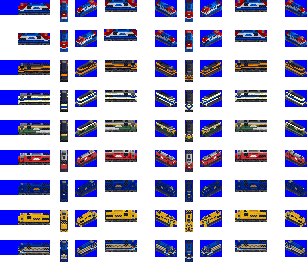
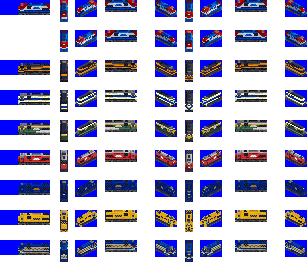
Add #176: 5x00/6x00 diesel locomotive

Changed region(s): [[0.3225, 0.0916, 0.4691, 0.1832], [0.0586, 0.1221, 0.1759, 0.1832]]

diff --git a/docs/download_page/korean.html b/docs/download_page/korean.html
@@ -49,6 +49,16 @@
         <td class="weight">88 t</td>
         <td class="introduction">2001</td>
     </tr>
+    <tr data-veh_id="K5X00">
+        <td class="refit"><div><img src="./_static/K5x00_BLACK_ORANGE.png" alt="5x00/6x00호대 디젤 기관차"></div></td>
+        <td class="name">5x00/6x00호대 디젤 기관차</td>
+        <td class="speed">105 km/h</td>
+        <td class="speed_designed">105 km/h</td>
+        <td class="capacity"></td>
+        <td class="power">1305 kW</td>
+        <td class="weight">141 t</td>
+        <td class="introduction">1957</td>
+    </tr>
     <tr data-veh_id="K7000">
         <td class="refit"><div><img src="./_static/K7000_1.png" alt="7000호대 디젤 기관차"></div></td>
         <td class="name">7000호대 디젤 기관차</td>

diff --git a/docs/download_page/english.html b/docs/download_page/english.html
@@ -49,6 +49,16 @@
         <td class="weight">88 t</td>
         <td class="introduction">2001</td>
     </tr>
+    <tr data-veh_id="K5X00">
+        <td class="refit"><div><img src="./_static/K5x00_BLACK_ORANGE.png" alt="5x00/6x00 Diesel Locomotive"></div></td>
+        <td class="name">5x00/6x00 Diesel Locomotive</td>
+        <td class="speed">105 km/h</td>
+        <td class="speed_designed">105 km/h</td>
+        <td class="capacity"></td>
+        <td class="power">1305 kW</td>
+        <td class="weight">141 t</td>
+        <td class="introduction">1957</td>
+    </tr>
     <tr data-veh_id="K7000">
         <td class="refit"><div><img src="./_static/K7000_1.png" alt="7000 Diesel Locomotive"></div></td>
         <td class="name">7000 Diesel Locomotive</td>

diff --git a/src/spec.py b/src/spec.py
@@ -13,6 +13,7 @@ trainList['PASHI5']             = 110,    110,    10,     4,            0,      
 trainList['MATE2']              = 90,     90,     10,     4,            0,       0,            1074,   113,    (1943, 1, 1)
 trainList['K2x00']              = 105,    105,    10,     4,            None,    None,         597,    95,     (1955, 1, 1)
 trainList['K4x00']              = 105,    105,    10,     4,            None,    None,         1230,   88,     (2001, 1, 1)
+trainList['K5x00']              = 105,    105,    10,     4,            None,    None,         1305,   141,    (1957, 1, 1)
 trainList['K7000']              = 150,    150,    10,     4,            None,    None,         2460,   119,    (1986, 1, 1)
 trainList['K7x00']              = 150,    150,    10,     4,            None,    None,         2238,   130,    (1971, 1, 1)
 trainList['K7600']              = 150,    165,    10,     4,            None,    None,         2602,   132,    (2014, 1, 1)

diff --git a/docs/download_page/korean.md b/docs/download_page/korean.md
@@ -49,6 +49,16 @@
         <td class="weight">88 t</td>
         <td class="introduction">2001</td>
     </tr>
+    <tr data-veh_id="K5X00">
+        <td class="refit"><div><img src="./_static/K5x00_BLACK_ORANGE.png" alt="5x00/6x00호대 디젤 기관차"></div></td>
+        <td class="name">5x00/6x00호대 디젤 기관차</td>
+        <td class="speed">105 km/h</td>
+        <td class="speed_designed">105 km/h</td>
+        <td class="capacity"></td>
+        <td class="power">1305 kW</td>
+        <td class="weight">141 t</td>
+        <td class="introduction">1957</td>
+    </tr>
     <tr data-veh_id="K7000">
         <td class="refit"><div><img src="./_static/K7000_1.png" alt="7000호대 디젤 기관차"></div></td>
         <td class="name">7000호대 디젤 기관차</td>

diff --git a/docs/download_page/english.md b/docs/download_page/english.md
@@ -49,6 +49,16 @@
         <td class="weight">88 t</td>
         <td class="introduction">2001</td>
     </tr>
+    <tr data-veh_id="K5X00">
+        <td class="refit"><div><img src="./_static/K5x00_BLACK_ORANGE.png" alt="5x00/6x00 Diesel Locomotive"></div></td>
+        <td class="name">5x00/6x00 Diesel Locomotive</td>
+        <td class="speed">105 km/h</td>
+        <td class="speed_designed">105 km/h</td>
+        <td class="capacity"></td>
+        <td class="power">1305 kW</td>
+        <td class="weight">141 t</td>
+        <td class="introduction">1957</td>
+    </tr>
     <tr data-veh_id="K7000">
         <td class="refit"><div><img src="./_static/K7000_1.png" alt="7000 Diesel Locomotive"></div></td>
         <td class="name">7000 Diesel Locomotive</td>

diff --git a/docs/changelog.md b/docs/changelog.md
@@ -1,3 +1,8 @@
+2.0.3
+-----
+  * 추가: 2x00호대 디젤 기관차 [#90]
+  * 추가: 5x00/6x00호대 디젤 기관차 [#176]
+
 2.0.2
 -----
   * 추가: 새마을호 특실 (구 도색, 최근 도색) [#118]
